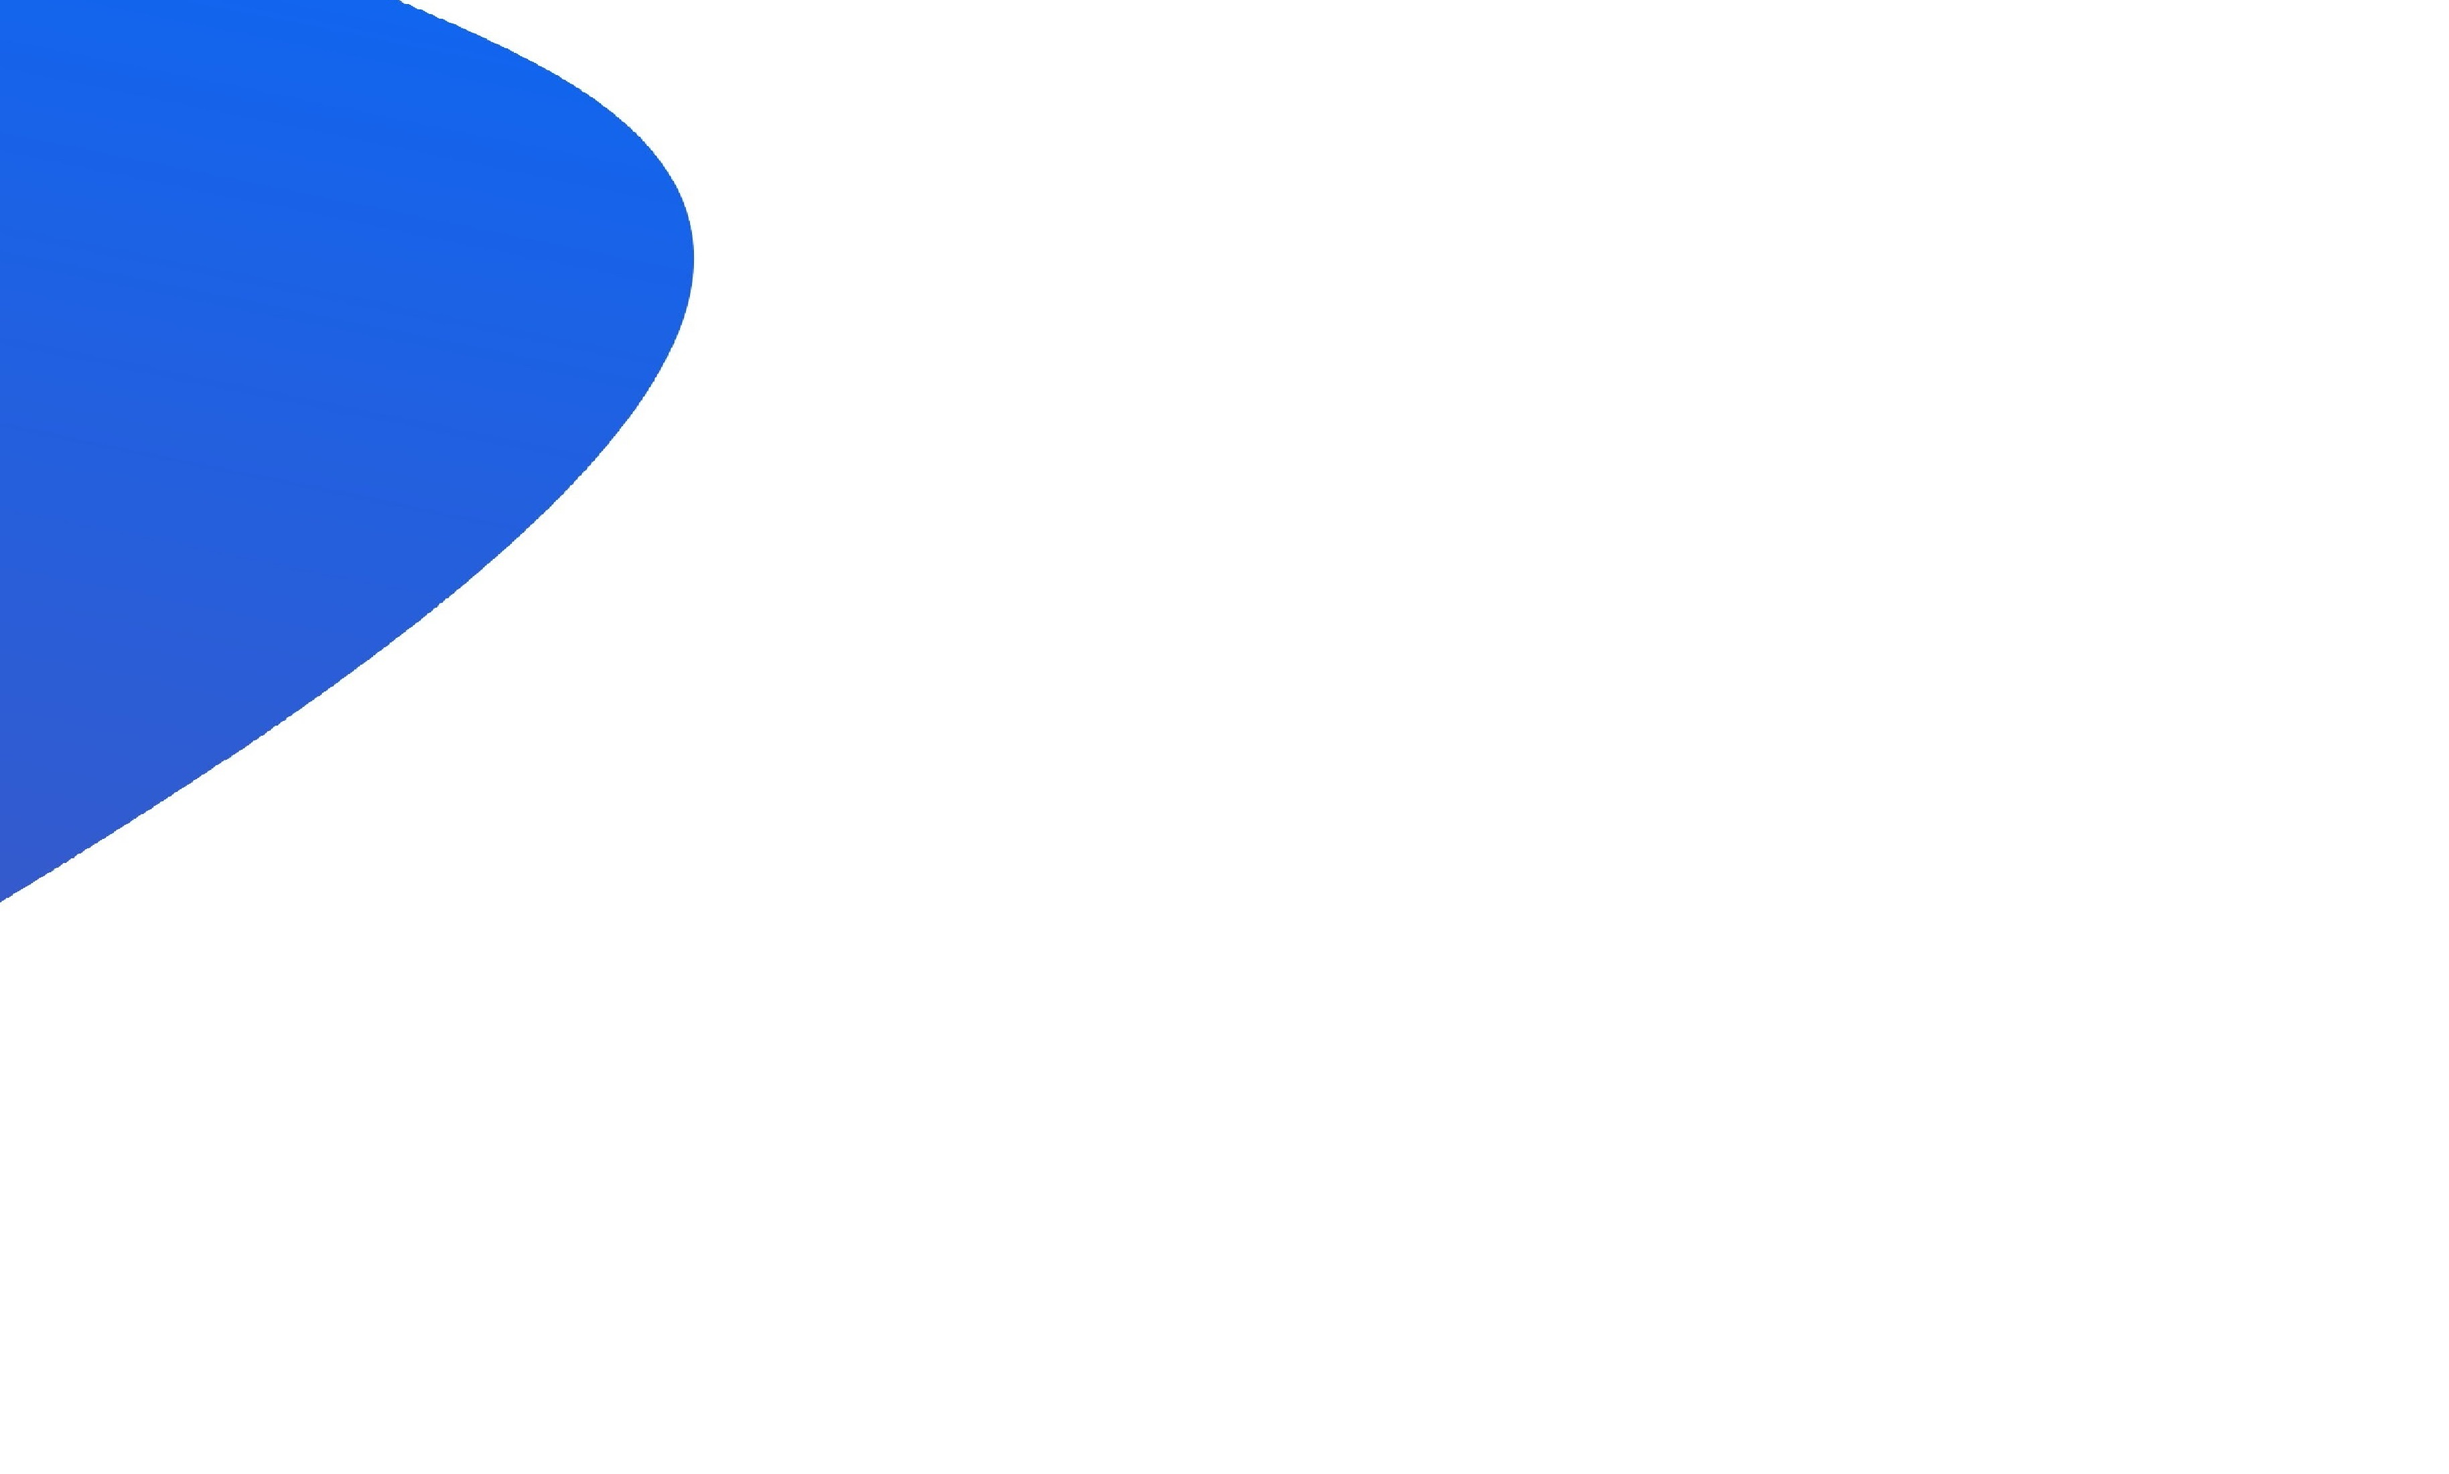
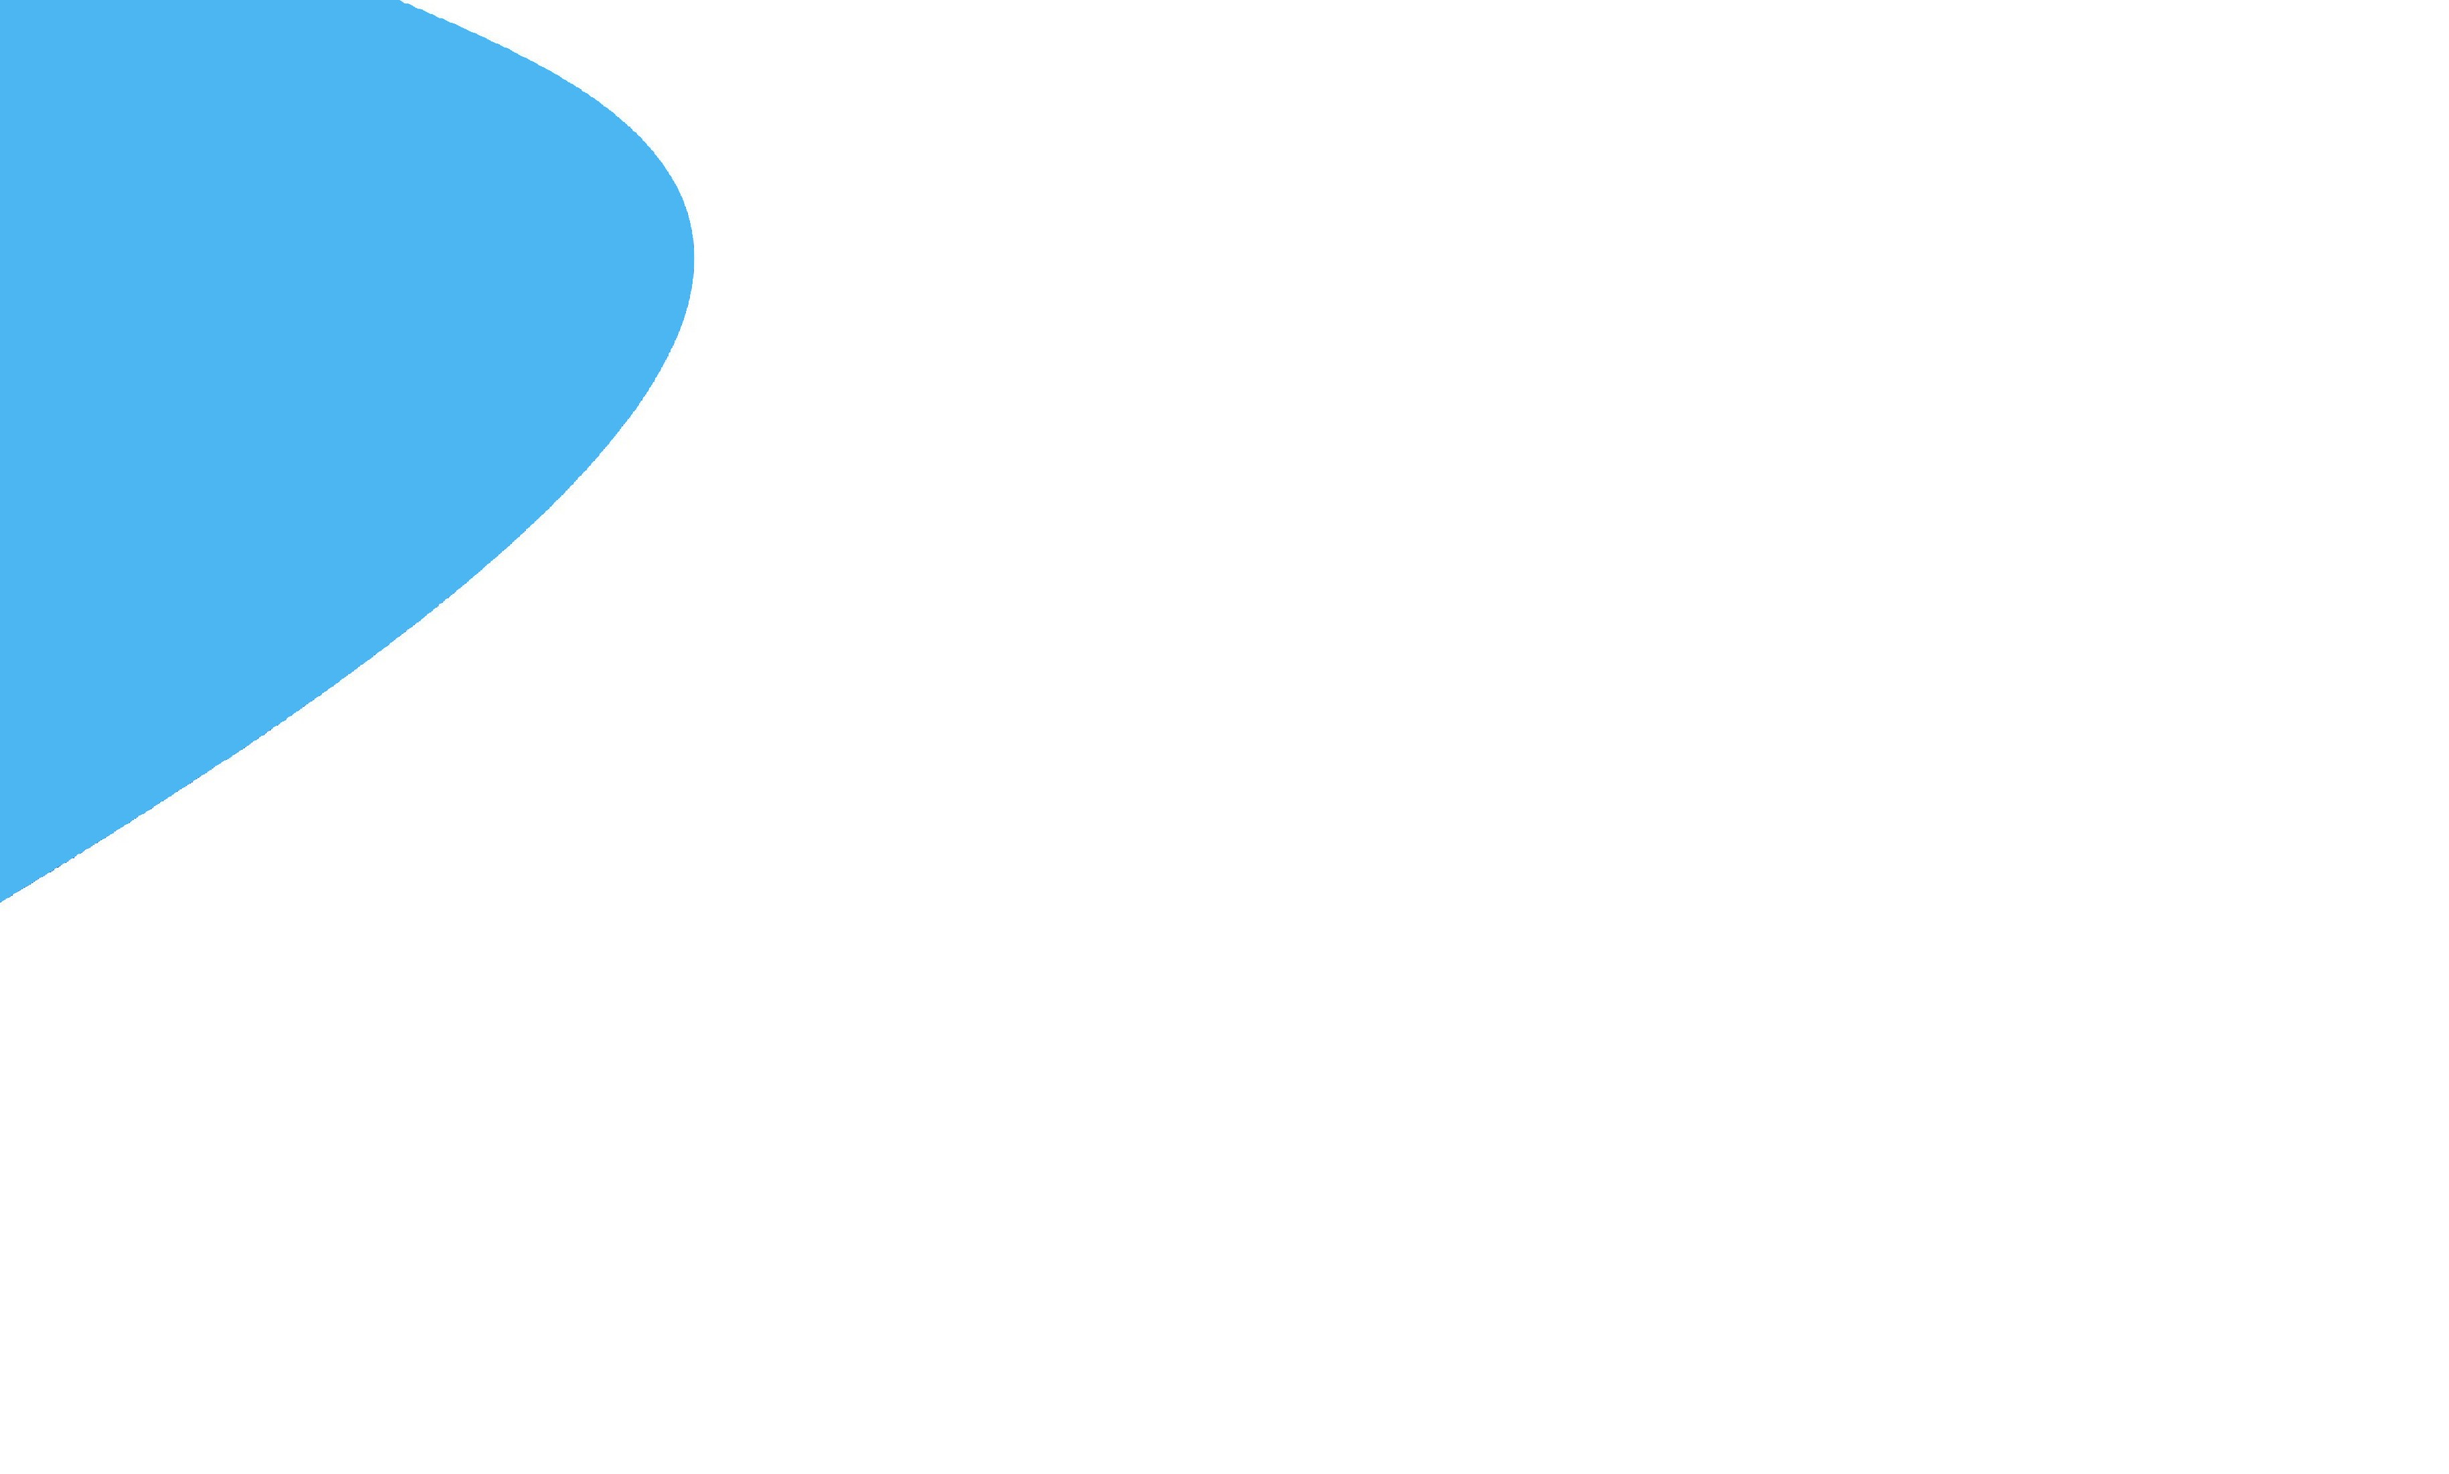
Initial commit

Changed region(s): [[0.0, 0.0, 0.2806, 0.6182]]

diff --git a/assets/html/cgpa.html b/assets/html/cgpa.html
@@ -3,9 +3,9 @@
 
 <head>
 	<title>C.G.P.A</title>
-	<meta name="theme-color" content="#1963E8" />
+	<meta name="theme-color" content="#4bb6f2" />
 	<meta name="apple-mobile-web-app-capable" content="yes" />
-	<meta name="apple-mobile-web-app-status-bar-style" content="#1963E8" />
+	<meta name="apple-mobile-web-app-status-bar-style" content="#4bb6f2" />
 	<link href="../favicon.ico" rel="icon">
 	<meta name="viewport" content="width=device-width, initial-scale=1.0, shrink-to-fit=no">
 	<link rel="stylesheet" href="https://stackpath.bootstrapcdn.com/bootstrap/4.4.1/css/bootstrap.min.css">
@@ -22,8 +22,8 @@
 		<div class="container">
 			<div id="main-content">
 				<div id="heading">
-					<h1 class="text-center text-primary">Average C.G.P.A </h1>
-					<h1 class="text-center text-primary">To Percentage</h1>
+					<h1 class="text-center">Average C.G.P.A </h1>
+					<h1 class="text-center">To Percentage</h1>
 				</div>
 				<div class="text-center" id="inputs"><input type="text" id="input_field" placeholder="Semester Number">
 					<button class="btn btn-primary" type="button" onclick="input()">Click me!</button>

diff --git a/assets/html/percentage.html b/assets/html/percentage.html
@@ -3,9 +3,9 @@
 
 <head>
 	<title>Percentage</title>
-	<meta name="theme-color" content="#1963E8" />
+	<meta name="theme-color" content="#4bb6f2" />
 	<meta name="apple-mobile-web-app-capable" content="yes" />
-	<meta name="apple-mobile-web-app-status-bar-style" content="#1963E8" />
+	<meta name="apple-mobile-web-app-status-bar-style" content="#4bb6f2" />
 	<link href="../favicon.ico" rel="icon">
 	<meta name="viewport" content="width=device-width, initial-scale=1.0, shrink-to-fit=no">
 	<link rel="stylesheet" href="https://stackpath.bootstrapcdn.com/bootstrap/4.4.1/css/bootstrap.min.css">

diff --git a/assets/html/css/style.css b/assets/html/css/style.css
@@ -28,7 +28,14 @@ nav a {
 	border: 0;
 }
 
+#heading h1 {
+	color: #4bb6f2;
+}
 
+.btn-primary {
+	background-color: #4bb6f2;
+	border-color: #4bb6f2;
+}
 
 .navbar-brand {
 	font-size: 40px;
@@ -56,8 +63,6 @@ input {
 
 button {
 	margin-top: 20px;
-	background-color: #f3f4f7;
-	color: #0069D9;
 }
 
 @media (max-width: 767px) {
